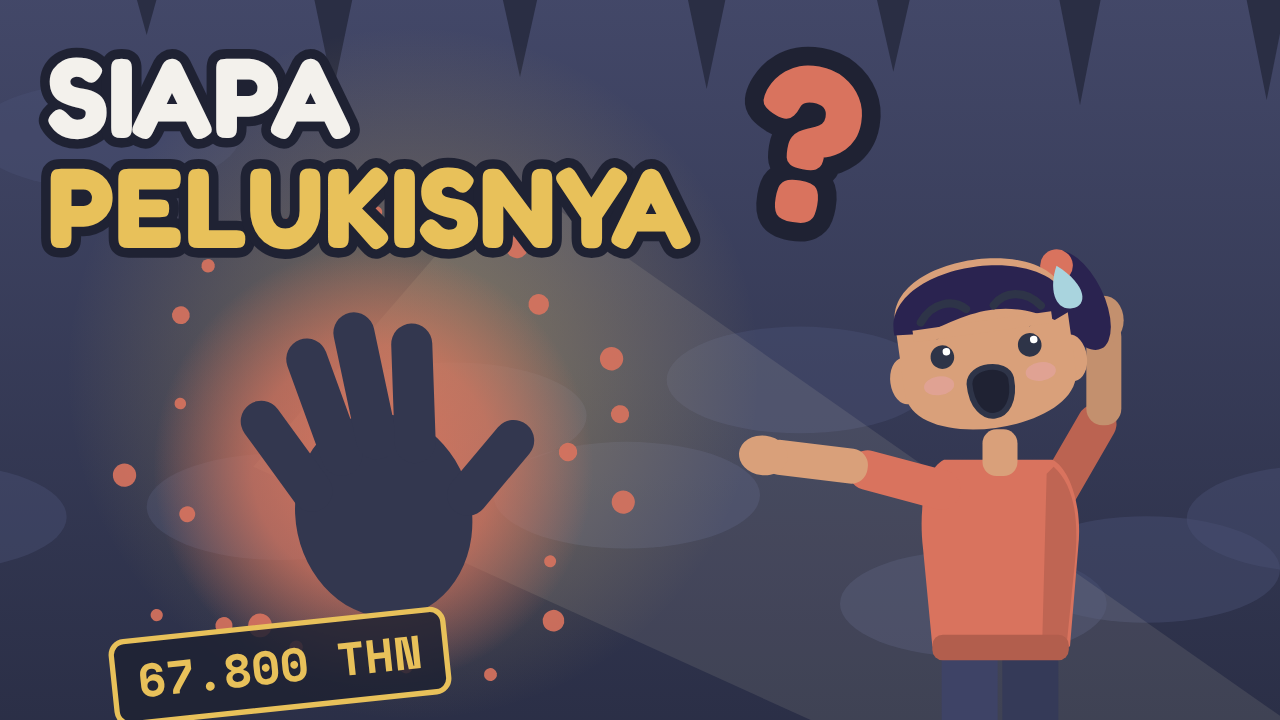
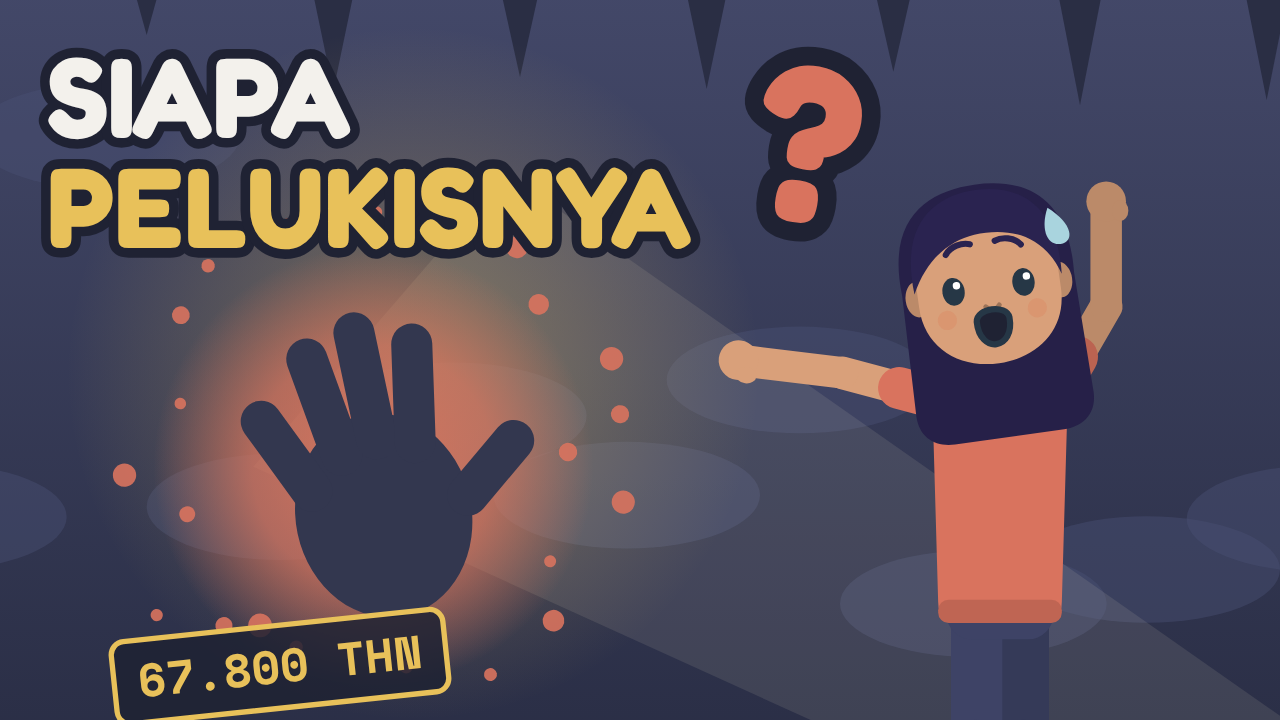
perjalanan-manusia: thumbnail Short baru (Nara kaget menunjuk cap tangan) + thumbnail long dipotret ulang dengan kit tokoh
Claude-Session: https://claude.ai/code/session_01QhKcDzNPLSSDzeFLxwQag4

Changed region(s): [[0.5625, 0.2444, 0.9062, 0.9167]]

diff --git a/perjalanan-manusia/thumbnail/thumbnail-short.html b/perjalanan-manusia/thumbnail/thumbnail-short.html
@@ -1532,14 +1532,23 @@ function photo(p,x,y,w,file,ar,l1,l2,{rot=-2,s1=36,s2=30}={}){const h=w/ar,g=G({
   IMGWAIT.push(new Promise(r=>{const i=new Image();i.onload=i.onerror=()=>r();i.src=href;}));
   TX(0,h/2+30+s1,l1,s1,C.ink,inner,{'font-weight':700});TX(0,h/2+52+s1+s2,l2,s2,C.mint2,inner,{'font-weight':600});return j;}
 
-/* Thumbnail Short: SIAPA PELUKISNYA? */
+/* Thumbnail Short: SIAPA PELUKISNYA? — cap tangan tetap terbaca, Nara kaget menunjuk.
+   Elemen penting di atas y≈1600 dan jauh dari tepi kanan (tombol UI Shorts). */
 const P=scene('thumb');{const p=P.g;R(-400,-400,1900,2800,'url(#caveG)',0,p);for(let i=0;i<12;i++)EL(-100+(i%3)*500,200+Math.floor(i/3)*480+rnd(i)*200,240,90,'#4A5074',p,{opacity:.45});
-  PA('M 1200 1900 L 900 2000 L 300 1000 L 800 760 Z','#F4ECCF',p,{opacity:.10});CI(540,980,640,'url(#fireGlow)',p,{opacity:.65});
-  const hp=G({transform:'translate(540,1000) rotate(-8)'},p);CI(0,0,400,'url(#spray)',hp);handShape(hp,'#33374F',2.6);
-  for(let i=0;i<24;i++){const a=i*2.4,r=320+rnd(i)*120;CI(Math.cos(a)*r,Math.sin(a)*r,9+rnd(i+5)*11,C.coral,hp,{opacity:.9});}
-  const tx=(y,s,txt,f,a={})=>{const t=N('text',{x:540,y,'font-size':s,'font-weight':700,fill:f,stroke:C.night,'stroke-width':s*.17,'paint-order':'stroke','stroke-linejoin':'round','text-anchor':'middle','font-family':'Fredoka, sans-serif',...a},p);t.textContent=txt;return t;};
-  tx(440,190,'SIAPA',C.paper);tx(600,150,'PELUKISNYA',C.sun);tx(1060,420,'?',C.coral,{opacity:.95});
-  const st=G({transform:'translate(540,1500) rotate(-5)'},p);R(-260,-62,520,124,C.night,20,st,{opacity:.85});R(-260,-62,520,124,'none',20,st,{stroke:C.sun,'stroke-width':8});
+  for(let i=0;i<5;i++){const x=40+i*250;PA(`M ${x-70} -100 L ${x+70} -100 L ${x} ${110+rnd(i)*110} Z`,'#2A2E44',p);}
+  /* sinar senter dari kanan bawah ke cap tangan */
+  PA('M 1300 1500 L 1100 1800 L 220 1080 L 560 720 Z','#F4ECCF',p,{opacity:.10});CI(400,960,520,'url(#fireGlow)',p,{opacity:.7});
+  const hp=G({transform:'translate(400,960) rotate(-10)'},p);CI(0,0,340,'url(#spray)',hp);handShape(hp,'#33374F',2.1);
+  for(let i=0;i<22;i++){const a=i*2.4,r=280+rnd(i)*110;CI(Math.cos(a)*r,Math.sin(a)*r,8+rnd(i+5)*10,C.coral,hp,{opacity:.9});}
+  /* Nara kaget menunjuk cap tangan */
+  const k=character(p,800,2080,1.45,NARA);k.mouth.setAttribute('d','M -12 -36 C -13 -12 13 -12 12 -36 C 11 -46 -11 -46 -12 -36 Z');k.mouth.setAttribute('fill',C.night);
+  k.Lbrow.y=k.Rbrow.y=-9;k.Lbrow.r=-10;k.Rbrow.r=10;k.Lbrow.apply();k.Rbrow.apply();k.eyes.sx=1.35;k.eyes.sy=1.35;k.eyes.apply();k.head.r=-8;k.head.apply();
+  k.Larm.r=138;k.Larm.apply();k.Lfore.r=-4;k.Lfore.apply();k.Rarm.r=-150;k.Rarm.apply();k.Rfore.r=-30;k.Rfore.apply();
+  PA('M 70 -150 C 60 -130 64 -112 78 -112 C 92 -112 94 -130 70 -150 Z',C.sky,G({},k.headAcc));
+  const tx=(x,y,s,txt,f,a={})=>{const t=N('text',{x,y,'font-size':s,'font-weight':700,fill:f,stroke:C.night,'stroke-width':s*.17,'paint-order':'stroke','stroke-linejoin':'round','text-anchor':'middle','font-family':'Fredoka, sans-serif',...a},p);t.textContent=txt;return t;};
+  tx(450,330,190,'SIAPA',C.paper);tx(540,500,150,'PELUKISNYA',C.sun);tx(880,360,300,'?',C.coral,{transform:'rotate(12 880 260)'});
+  /* petunjuk kecil, jawabannya disembunyikan */
+  const st=G({transform:'translate(320,1600) rotate(-6)'},p);R(-250,-62,500,124,C.night,20,st,{opacity:.85});R(-250,-62,500,124,'none',20,st,{stroke:C.sun,'stroke-width':8});
   N('text',{x:0,y:24,'font-size':70,'font-weight':700,fill:C.sun,'text-anchor':'middle','font-family':'Space Mono, monospace'},st).textContent='67.800 THN';}
 P.g.style.display='block';Object.assign(P.cam,{x:540,y:960,z:1});P.apply();DUR=1;
 

diff --git a/perjalanan-manusia/thumbnail/short.js b/perjalanan-manusia/thumbnail/short.js
@@ -1,10 +1,19 @@
-/* Thumbnail Short: SIAPA PELUKISNYA? */
+/* Thumbnail Short: SIAPA PELUKISNYA? — cap tangan tetap terbaca, Nara kaget menunjuk.
+   Elemen penting di atas y≈1600 dan jauh dari tepi kanan (tombol UI Shorts). */
 const P=scene('thumb');{const p=P.g;R(-400,-400,1900,2800,'url(#caveG)',0,p);for(let i=0;i<12;i++)EL(-100+(i%3)*500,200+Math.floor(i/3)*480+rnd(i)*200,240,90,'#4A5074',p,{opacity:.45});
-  PA('M 1200 1900 L 900 2000 L 300 1000 L 800 760 Z','#F4ECCF',p,{opacity:.10});CI(540,980,640,'url(#fireGlow)',p,{opacity:.65});
-  const hp=G({transform:'translate(540,1000) rotate(-8)'},p);CI(0,0,400,'url(#spray)',hp);handShape(hp,'#33374F',2.6);
-  for(let i=0;i<24;i++){const a=i*2.4,r=320+rnd(i)*120;CI(Math.cos(a)*r,Math.sin(a)*r,9+rnd(i+5)*11,C.coral,hp,{opacity:.9});}
-  const tx=(y,s,txt,f,a={})=>{const t=N('text',{x:540,y,'font-size':s,'font-weight':700,fill:f,stroke:C.night,'stroke-width':s*.17,'paint-order':'stroke','stroke-linejoin':'round','text-anchor':'middle','font-family':'Fredoka, sans-serif',...a},p);t.textContent=txt;return t;};
-  tx(440,190,'SIAPA',C.paper);tx(600,150,'PELUKISNYA',C.sun);tx(1060,420,'?',C.coral,{opacity:.95});
-  const st=G({transform:'translate(540,1500) rotate(-5)'},p);R(-260,-62,520,124,C.night,20,st,{opacity:.85});R(-260,-62,520,124,'none',20,st,{stroke:C.sun,'stroke-width':8});
+  for(let i=0;i<5;i++){const x=40+i*250;PA(`M ${x-70} -100 L ${x+70} -100 L ${x} ${110+rnd(i)*110} Z`,'#2A2E44',p);}
+  /* sinar senter dari kanan bawah ke cap tangan */
+  PA('M 1300 1500 L 1100 1800 L 220 1080 L 560 720 Z','#F4ECCF',p,{opacity:.10});CI(400,960,520,'url(#fireGlow)',p,{opacity:.7});
+  const hp=G({transform:'translate(400,960) rotate(-10)'},p);CI(0,0,340,'url(#spray)',hp);handShape(hp,'#33374F',2.1);
+  for(let i=0;i<22;i++){const a=i*2.4,r=280+rnd(i)*110;CI(Math.cos(a)*r,Math.sin(a)*r,8+rnd(i+5)*10,C.coral,hp,{opacity:.9});}
+  /* Nara kaget menunjuk cap tangan */
+  const k=character(p,800,2080,1.45,NARA);k.mouth.setAttribute('d','M -12 -36 C -13 -12 13 -12 12 -36 C 11 -46 -11 -46 -12 -36 Z');k.mouth.setAttribute('fill',C.night);
+  k.Lbrow.y=k.Rbrow.y=-9;k.Lbrow.r=-10;k.Rbrow.r=10;k.Lbrow.apply();k.Rbrow.apply();k.eyes.sx=1.35;k.eyes.sy=1.35;k.eyes.apply();k.head.r=-8;k.head.apply();
+  k.Larm.r=138;k.Larm.apply();k.Lfore.r=-4;k.Lfore.apply();k.Rarm.r=-150;k.Rarm.apply();k.Rfore.r=-30;k.Rfore.apply();
+  PA('M 70 -150 C 60 -130 64 -112 78 -112 C 92 -112 94 -130 70 -150 Z',C.sky,G({},k.headAcc));
+  const tx=(x,y,s,txt,f,a={})=>{const t=N('text',{x,y,'font-size':s,'font-weight':700,fill:f,stroke:C.night,'stroke-width':s*.17,'paint-order':'stroke','stroke-linejoin':'round','text-anchor':'middle','font-family':'Fredoka, sans-serif',...a},p);t.textContent=txt;return t;};
+  tx(450,330,190,'SIAPA',C.paper);tx(540,500,150,'PELUKISNYA',C.sun);tx(880,360,300,'?',C.coral,{transform:'rotate(12 880 260)'});
+  /* petunjuk kecil, jawabannya disembunyikan */
+  const st=G({transform:'translate(320,1600) rotate(-6)'},p);R(-250,-62,500,124,C.night,20,st,{opacity:.85});R(-250,-62,500,124,'none',20,st,{stroke:C.sun,'stroke-width':8});
   N('text',{x:0,y:24,'font-size':70,'font-weight':700,fill:C.sun,'text-anchor':'middle','font-family':'Space Mono, monospace'},st).textContent='67.800 THN';}
 P.g.style.display='block';Object.assign(P.cam,{x:540,y:960,z:1});P.apply();DUR=1;
